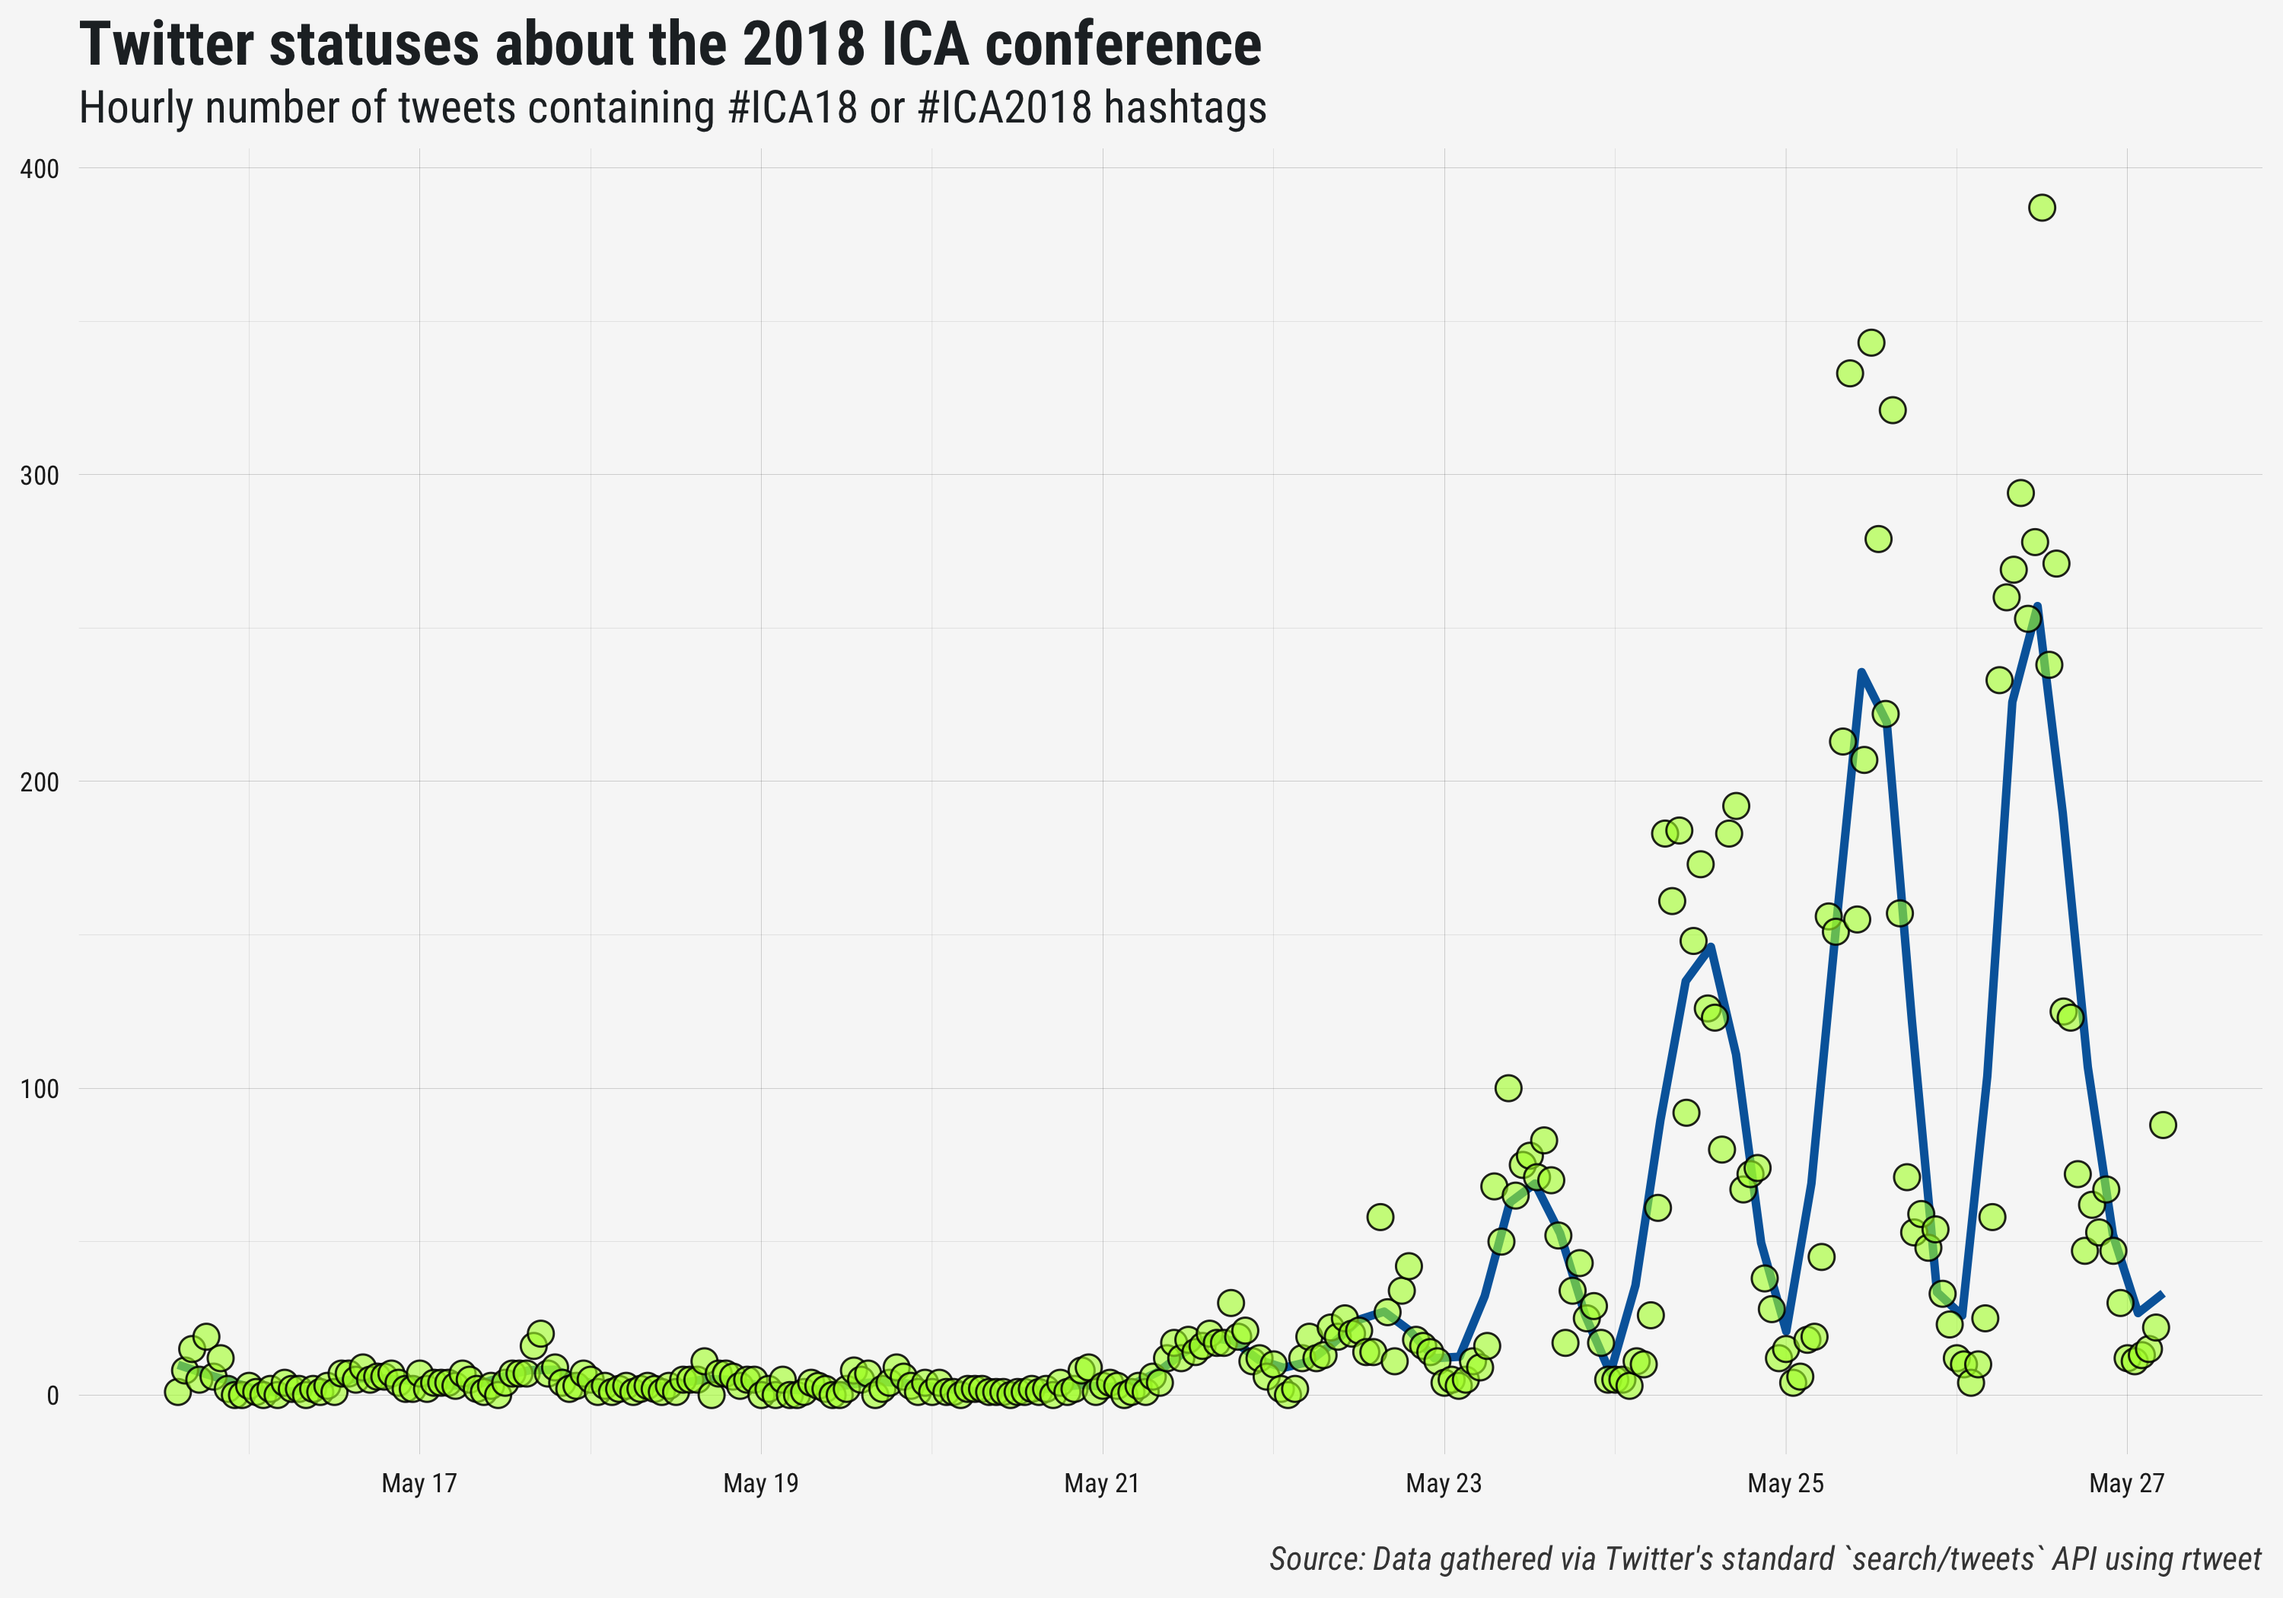
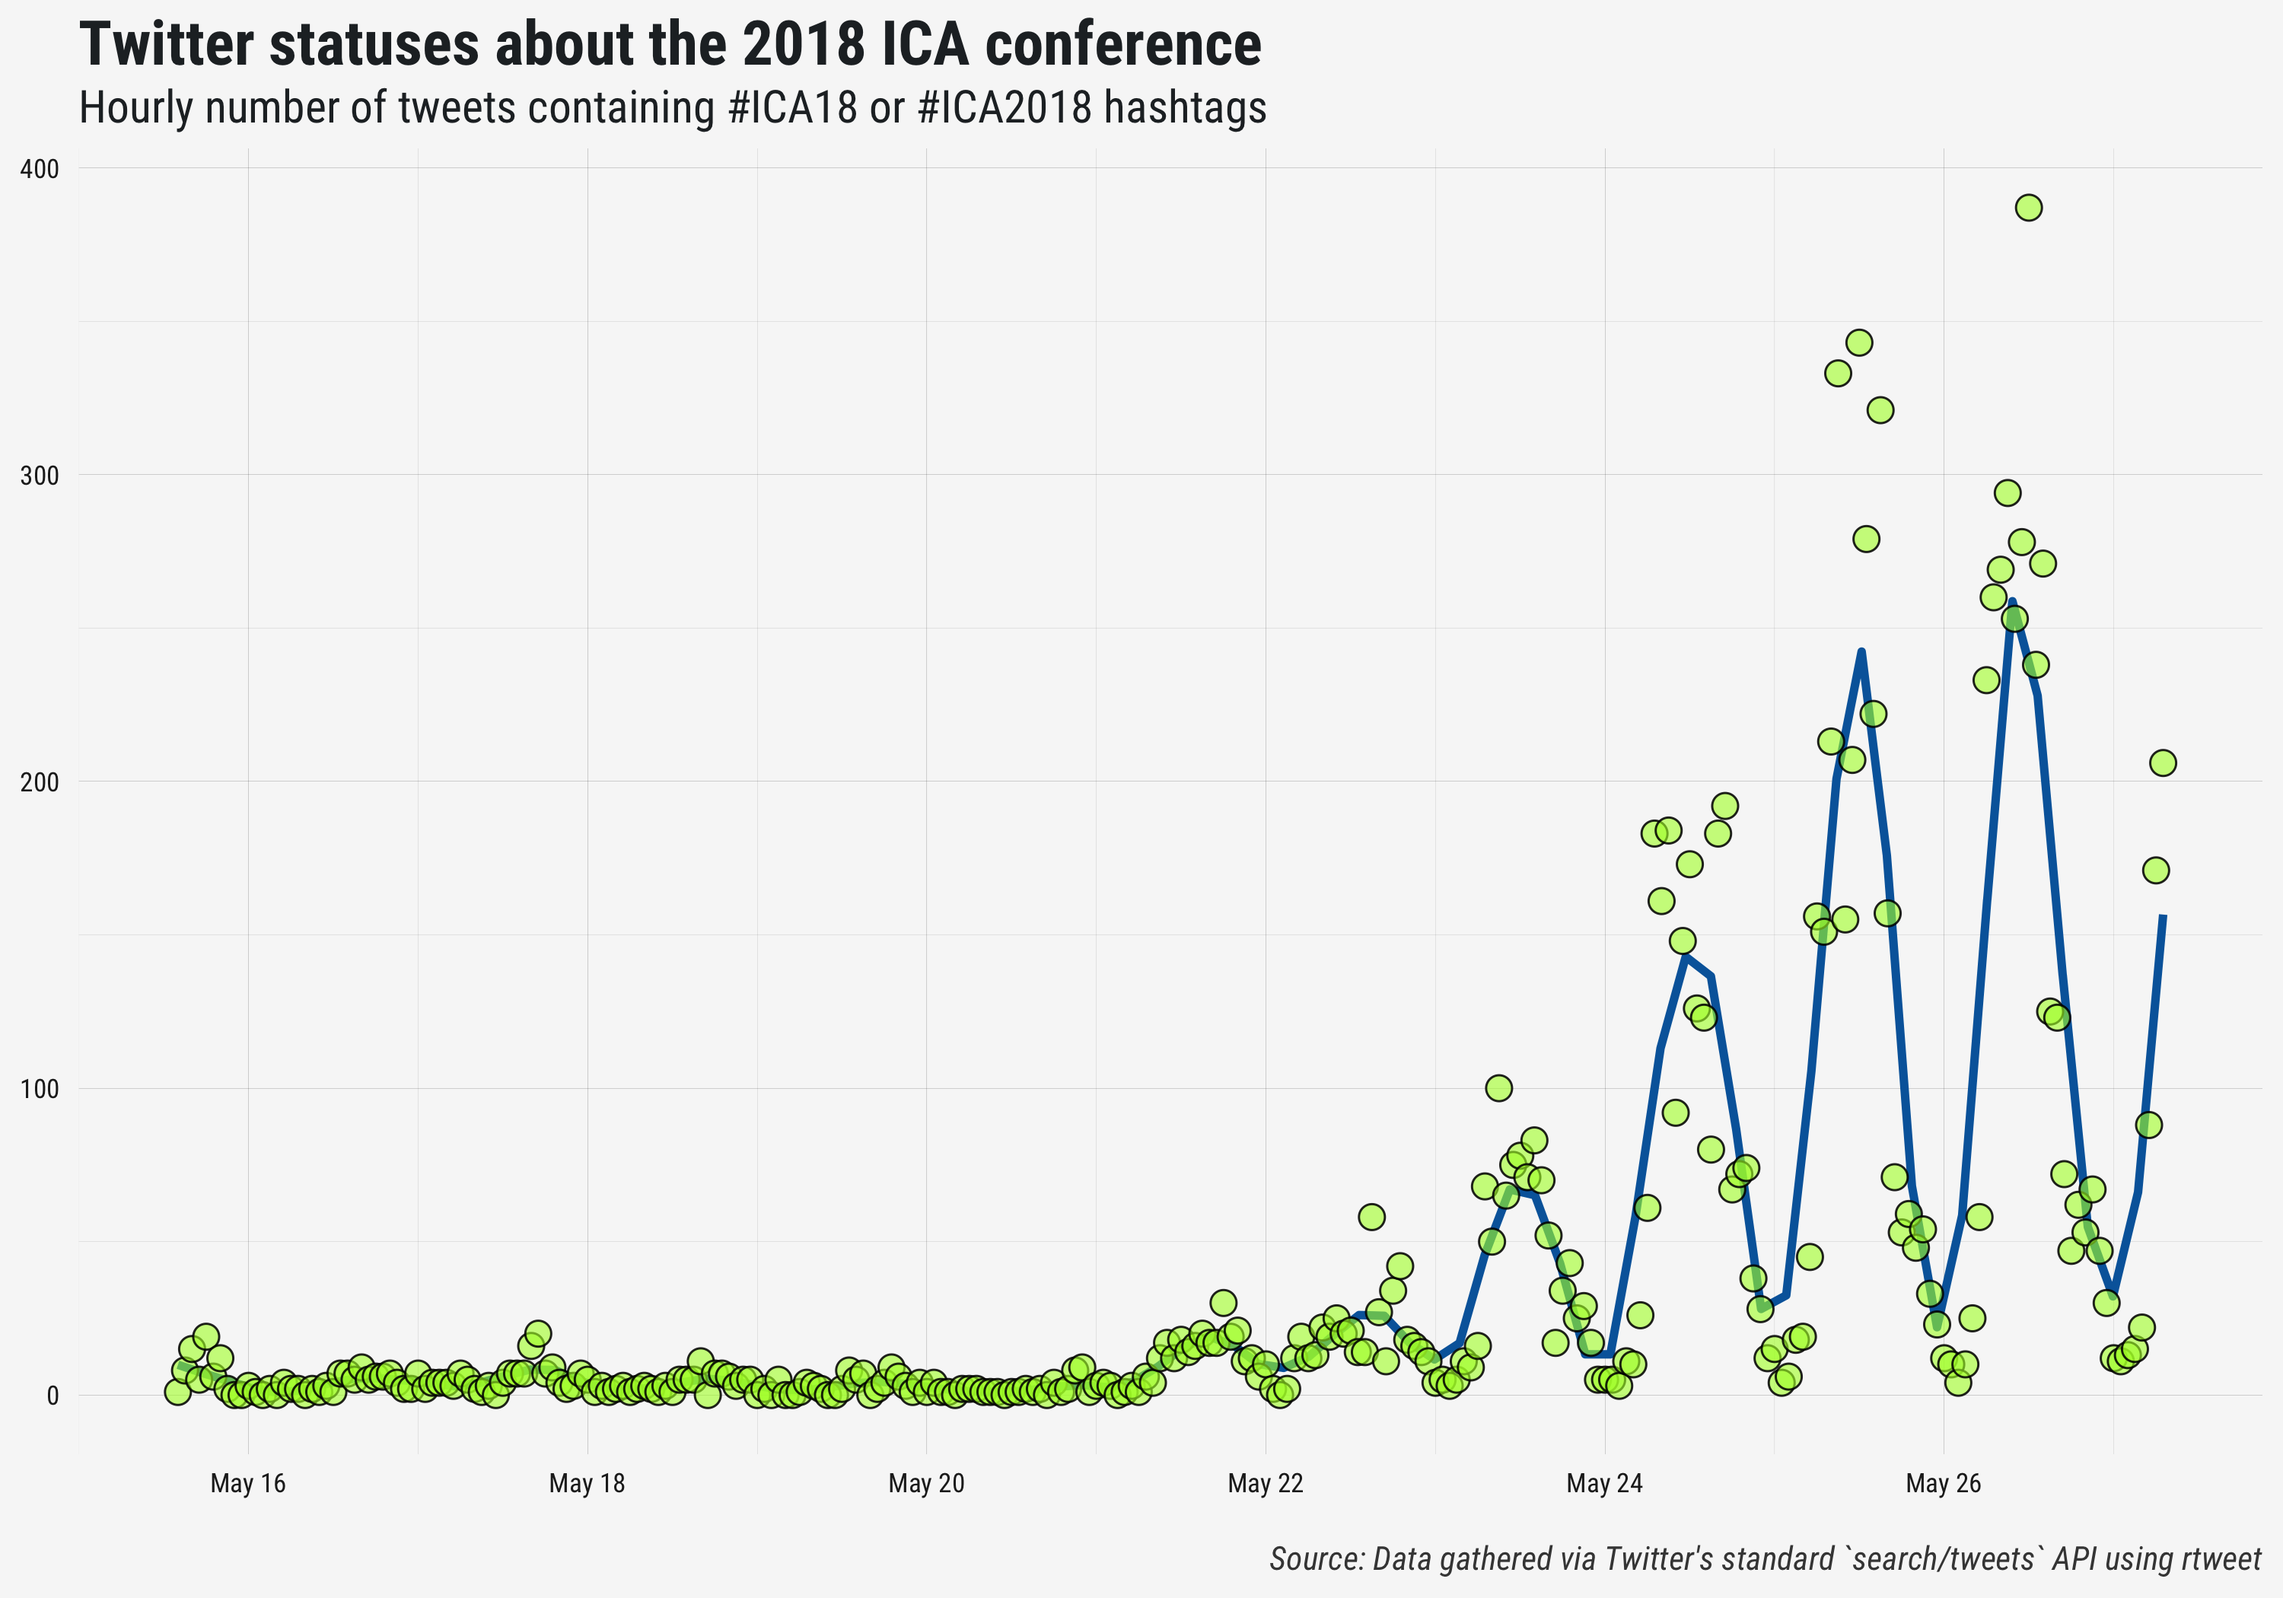
add div freq table

diff --git a/README.md b/README.md
@@ -40,20 +40,20 @@ saveRDS(ica, file.path("data", "ica18.rds"))
 
 ## view data
 ica
-#> # A tibble: 10,658 x 87
+#> # A tibble: 11,084 x 87
 #>    user_id status_id created_at          screen_name text  source display_text_wi… reply_to_status…
 #>    <chr>   <chr>     <dttm>              <chr>       <chr> <chr>             <dbl> <chr>           
-#>  1 176186… 10006274… 2018-05-27 06:39:00 CatyBC      .@CM… Twitt…              81. <NA>            
-#>  2 148600… 10006268… 2018-05-27 06:36:38 aschrock    RT @… Tweet…             119. <NA>            
-#>  3 154785… 10006266… 2018-05-27 06:36:00 ICA_CAT     Plea… Tweet…              82. <NA>            
-#>  4 185552… 10006264… 2018-05-27 06:35:05 nikospan    RT @… Twitt…             140. <NA>            
-#>  5 189983… 10006264… 2018-05-27 06:35:18 CarolienNi… RT @… Twitt…             144. <NA>            
-#>  6 259832… 10006266… 2018-05-27 06:36:00 boomgaarde… RT @… Twitt…             139. <NA>            
-#>  7 310737… 10006266… 2018-05-27 06:35:59 DrSha       RT @… Twitt…             139. <NA>            
-#>  8 315607… 10006266… 2018-05-27 06:36:00 icahdq      "Nur… Hoots…             195. <NA>            
-#>  9 394285… 10006263… 2018-05-27 06:34:56 scroeser    The … Twitt…             248. 100062550173886…
-#> 10 5165901 10006270… 2018-05-27 06:37:27 Hermida     Time… Twitt…             165. 100062661754537…
-#> # ... with 10,648 more rows, and 79 more variables: reply_to_user_id <chr>,
+#>  1 576450… 10006535… 2018-05-27 08:22:50 MichelWalr… Lies… Twitt…             146. <NA>            
+#>  2 983366… 10006536… 2018-05-27 08:23:13 ICASECAC    When… Twitt…             109. <NA>            
+#>  3 104920… 10006534… 2018-05-27 08:22:35 wishcrys    RT @… Twitt…             140. <NA>            
+#>  4 104920… 10006533… 2018-05-27 08:22:09 wishcrys    RT @… Twitt…             140. <NA>            
+#>  5 116016… 10006532… 2018-05-27 08:21:40 poli_com    RT @… Twitt…             140. <NA>            
+#>  6 116016… 10006532… 2018-05-27 08:21:32 poli_com    RT @… Twitt…             140. <NA>            
+#>  7 116016… 10006532… 2018-05-27 08:21:46 poli_com    RT @… Twitt…             144. <NA>            
+#>  8 116016… 10006531… 2018-05-27 08:21:24 poli_com    RT @… Twitt…             140. <NA>            
+#>  9 116016… 10006531… 2018-05-27 08:21:21 poli_com    RT @… Twitt…             108. <NA>            
+#> 10 132089… 10006534… 2018-05-27 08:22:31 FHeinderyc… "The… Tweet…             256. <NA>            
+#> # ... with 11,074 more rows, and 79 more variables: reply_to_user_id <chr>,
 #> #   reply_to_screen_name <chr>, is_quote <lgl>, is_retweet <lgl>, favorite_count <int>,
 #> #   retweet_count <int>, hashtags <list>, symbols <list>, urls_url <list>, urls_t.co <list>,
 #> #   urls_expanded_url <list>, media_url <list>, media_t.co <list>, media_expanded_url <list>,
@@ -125,3 +125,51 @@ source("division_hashtags.R")
 <img width="100%" height="auto" src="ica_divs.png" />
 
 </p>
+
+``` r
+## read freq table for div hashtags
+icall <- readr::read_csv("freq.csv")
+#> Parsed with column specification:
+#> cols(
+#>   hashtag = col_character(),
+#>   n = col_integer()
+#> )
+
+## print freq table
+knitr::kable(icall)
+```
+
+| hashtag    |   n |
+| :--------- | --: |
+| ica\_pol   | 366 |
+| ica\_jsd   | 278 |
+| ica\_cat   | 173 |
+| ica\_gs    | 135 |
+| ica\_cam   | 116 |
+| ica\_lgbtq | 109 |
+| ica\_lsi   |  78 |
+| ica\_pr    |  69 |
+| ica\_acsj  |  43 |
+| ica\_fsd   |  43 |
+| ica\_mob   |  41 |
+| ica\_cm    |  37 |
+| ica\_pd    |  29 |
+| ica\_hc    |  27 |
+| ica\_vis   |  25 |
+| ica\_clp   |  24 |
+| ica\_pop   |  23 |
+| ica\_gcsc  |  20 |
+| ica\_ptc   |  19 |
+| ica\_eric  |  14 |
+| ica\_is    |  12 |
+| ica\_org   |  11 |
+| ica\_mass  |  10 |
+| ica\_icd   |   8 |
+| ica\_idd   |   4 |
+| ica\_mis   |   4 |
+| ica\_csab  |   3 |
+| ica\_env   |   3 |
+| ica\_igc   |   3 |
+| ica\_his   |   1 |
+| ica\_sc    |   1 |
+| ica\_secac |   1 |
